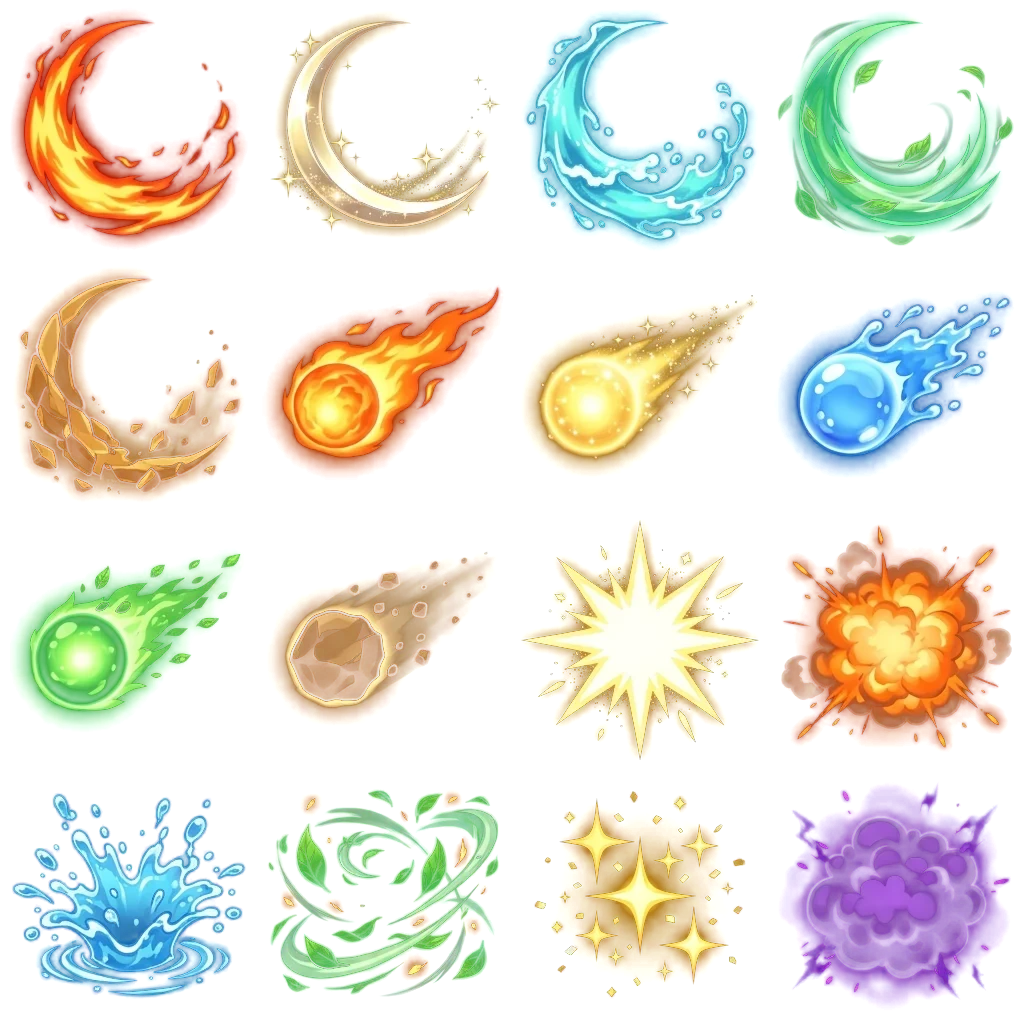
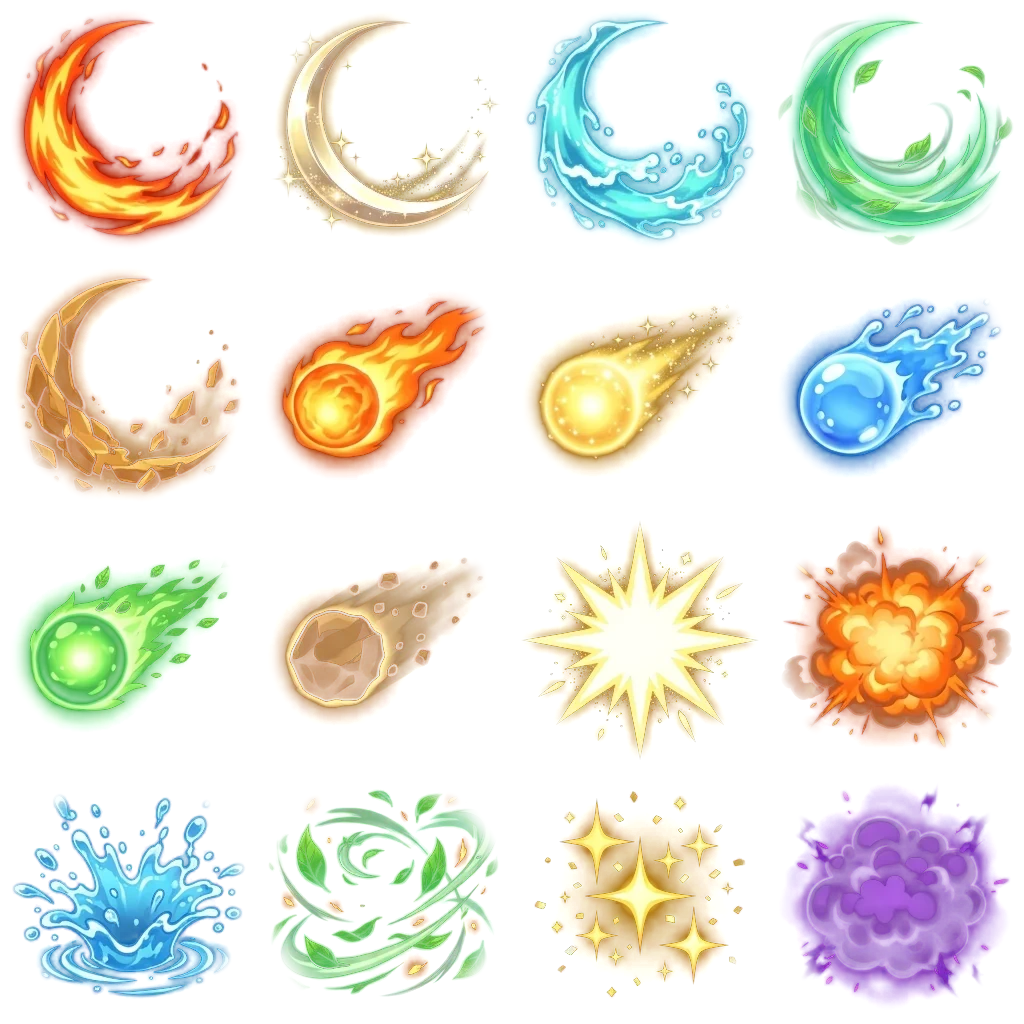
v50: 城鎮對白框不再殘留、特效圖集邊緣羽化（不再方形切邊）、競技場套用城鎮屬性特效與音效、一鍵全自動戰鬥
Claude-Session: https://claude.ai/code/session_0197R7RU68RQZWdCEn8v7Fmg

diff --git a/index.html b/index.html
@@ -537,6 +537,8 @@ body:not(.intown) #bossbar{display:none!important}#bossbar{z-index:5!important}
 #sheet h2:not(.tt){font:900 28px var(--display)!important;letter-spacing:.06em;background:linear-gradient(#fff6c0 8%,#ffcf45 45%,#f0861a 92%);-webkit-background-clip:text;background-clip:text;color:transparent!important;text-shadow:none!important;filter:drop-shadow(0 2.5px 0 #5a2e08) drop-shadow(1.5px 0 0 #5a2e08) drop-shadow(-1.5px 0 0 #5a2e08) drop-shadow(0 -1.5px 0 #5a2e08) drop-shadow(0 3px 3px #0004);margin:0 auto;text-align:center}
 #tut{position:fixed;left:50%;top:calc(env(safe-area-inset-top) + 118px);transform:translateX(-50%);z-index:9;width:min(88vw,360px);display:none;align-items:center;gap:8px;padding:8px 10px 8px 14px;border-radius:14px;background:#fff8e8f2;color:#5a2e08;font:800 13px/1.4 system-ui;box-shadow:0 0 0 2.5px #c8923f,0 6px 16px #0005}#tut.on{display:flex}#tut span{flex:1}#tut button{flex:none;border:0;border-radius:99px;padding:4px 10px;font:800 11px system-ui;background:#e8d5a8;color:#7a5a30}
 #storym{position:fixed;inset:0;z-index:80;display:none;align-items:center;justify-content:center;background:#120c24cc;padding:24px}#storym.on{display:flex}#storym>div{max-width:340px;background:#f6e9c9;border:4px solid #a8743d;border-radius:20px;padding:20px;color:#4a2f18;box-shadow:0 12px 40px #000a}#storym h3{margin:0 0 12px;font:900 20px var(--display);color:#a14d0f;text-align:center}#storym p{font:500 15px/1.75 system-ui;margin:0 0 16px}
+#bcmd .bauto{grid-column:1/-1;background:linear-gradient(#b48cff,#7a4ae0)!important;color:#fff!important;box-shadow:inset 0 2px 0 #fff6,inset 0 -3px 0 #0003,0 3px 0 #4a2a9c!important}#bcmd .bauto.on{background:linear-gradient(#ffd66b,#f2b632)!important;color:#5a3a00!important;animation:apulse .8s infinite alternate}
+body.inbattle #chatb,body.inbattle #hubb,body.inbattle #tut{display:none!important}
 </style>
 </head>
 <body>
@@ -824,8 +826,18 @@ function bDraw(){const cu=B.phase==='cmd'?B.a[B.i]:null;
  if(B.phase==='cmd'){if(B.pend)cmd=B.f.map((x,i)=>x.hp>0?`<button data-a="btgt" data-v="f${i}">${esc(x.name)}</button>`:'').join('')+'<button data-a="bback">返回</button>';
   else{const s=SK[cu.sp];cmd=`<button data-a="bact" data-v="atk">攻擊<small>普通攻擊</small></button><button data-a="bact" data-v="sk" ${cu.qi<2?'disabled':''}>${s[0]}<small>${SKD[s[1]]} · 氣 2</small></button>${(()=>{const p=pairOf(cu,B.a);return p?`<button class="cmb" data-a="bact" data-v="cmb" ${cu.qi<2||p.m.qi<2||p.m.done?'disabled':''}>合體「${p.n}」<small>與 ${esc(p.m.name)} · 各耗氣 2</small></button>`:''})()}<button data-a="bact" data-v="def">防禦<small>傷害減半，氣 +1</small></button><button data-a="bact" data-v="run">逃跑<small>離開戰鬥</small></button>`}}
  else if(B.phase==='end')cmd='<button data-a="bexit">離開</button>';
+ if(B.phase!=='end')cmd=`<button class="bauto${BAUTO?' on':''}" data-a="bauto">${BAUTO?'■ 停止全自動':'⚡ 一鍵全自動'}<small>${BAUTO?'回合自動進行中':'自動選招與目標，打到結束'}</small></button>`+(BAUTO?'':cmd);
+ if(BAUTO&&B.phase==='cmd'&&!B.pend)setTimeout(bAutoPick,450);
  const msg=B.phase==='cmd'?(B.pend?`${esc(cu.name)} 要打誰？`:`第 ${B.round} 回合　${esc(cu.name)} 要做什麼？`):B.msg;
  $('#battle').innerHTML=`<div class="field"><div class="wea">${B.wx[1]} ${B.wx[0]}</div><div class="stage">${B.a.map(u).join('')}${B.f.map(u).join('')}</div></div><div class="bbox"><p id="bmsg">${msg}</p><div id="bcmd">${cmd}</div></div>`;b3Draw()}
+let BAUTO=!!localStorage.sealBA;
+// 全自動：氣夠就合體/絕招，血少的隊友多時防禦，否則攻擊血最少、屬性有利的敵人
+function bAutoPick(){if(!BAUTO||!B||B.phase!=='cmd'||B.pend)return;const u=B.a[B.i];if(!u)return;const al=B.f.filter(x=>x.hp>0);if(!al.length)return;
+ const tgt=al.slice().sort((x,y)=>(wxm(u.sp,y.sp)-wxm(u.sp,x.sp))||(x.hp-y.hp))[0],ti='f'+B.f.indexOf(tgt),p=pairOf(u,B.a);
+ if(p&&u.qi>=2&&p.m.qi>=2&&!p.m.done){A.bact('cmb');if(B.pend)A.btgt(ti);return}
+ if(u.qi>=2){A.bact('sk');if(B.pend)A.btgt(ti);return}
+ if(u.hp<u.mx*.25&&u.qi<2){A.bact('def');return}
+ A.bact('atk');if(B.pend)A.btgt(ti)}
 function bNext(){let i=B.i+1;while(i<B.a.length&&(B.a[i].hp<=0||B.a[i].skipc))i++;if(i<B.a.length){B.i=i;return bDraw()}
  const al=B.a.filter(x=>x.hp>0);B.f.forEach(e=>{if(e.hp<=0||e.skip)return;const r=Math.random(),low=al.slice().sort((x,y)=>x.hp-y.hp)[0];let k='atk',t=pick(al);
   const pr=e.qi>=2?pairOf(e,B.f):null;if(pr&&pr.m.qi>=2&&r<.5){pr.m.skip=1;B.acts.push({u:e,k:'cmb',p:pr,t:low});return}
@@ -849,7 +861,7 @@ function bStep(){if(!B||B.phase!=='run')return;const a=B.acts.shift();
    sfx2(win?'win':'lose');B.msg=(B.mode==='duel'?(win?`你贏了與 ${B.vs} 的友誼賽！`:`友誼賽輸給了 ${B.vs}，再接再厲！`):win?`勝利！獲得 ${fmt(z)} zeny，全員得到經驗。`:'全員倒下…… 得到少量經驗。')+extra+(ups.length?` ${ups.join('、')} 升級了！`:'');hud();build3D();netSync();return bDraw()}
   B.round++;B.phase='cmd';B.i=B.a.findIndex(x=>x.hp>0);return bDraw()}
  const u=a.u;if(u.hp<=0)return bStep();const foes=(u.side==='a'?B.f:B.a).filter(x=>x.hp>0);if(!foes.length)return bStep();
- let t=a.t&&a.t.hp>0?a.t:pick(foes),fx=[],m='';const nm=esc(u.name);
+ let t=a.t&&a.t.hp>0?a.t:pick(foes),fx=[],m='';B.cur=u;const nm=esc(u.name);
  const say=(r,x)=>{fx.push([x,r.miss?'MISS':r.d]);return r.miss?`${esc(x.name)} 閃開了`:`${r.ew>1?'效果絕佳！':r.ew<1?'效果不太好…':''}${esc(x.name)} 受到 ${r.d} 傷害${r.crit?'（爆擊）':''}`};
  if(a.k==='hl'){const al=(u.side==='a'?B.a:B.f).filter(x=>x.hp>0).sort((x,y)=>x.hp/x.mx-y.hp/y.mx)[0];const hl=Math.round(al.mx*.25);al.hp=Math.min(al.mx,al.hp+hl);fx.push([al,'+'+hl]);m=`${nm} 替 ${esc(al.name)} 治療，回復 ${hl}`;t=al}
  else if(a.k==='cmb'){const p=a.p;u.qi=Math.max(0,u.qi-2);if(p.m.hp>0)p.m.qi=Math.max(0,p.m.qi-2);m=`合體技！${nm} 與 ${esc(p.m.name)} 使出「${p.n}」！`;
@@ -1295,7 +1307,7 @@ function buildTown(){fxTex();RBN=1;BLD=1;SIGNS.length=0;const sc=new THREE.Scene
 function enterTown(){if(!HAS3D)return toast('此裝置不支援 3D 城鎮');if(!S.cr.length)return toast('先收服至少一位夥伴才能進城');qClose&&qClose();A.close&&A.close();
  const lo=$('#tload');lo.classList.add('on');setTimeout(()=>{if(!TOWNSC)buildTown();inTown=true;document.body.classList.add('intown');partyBuild();TP={x:0,z:TR-12,y:0,vy:0,ry:Math.PI};tAz=0;TRAIL=[];
   PEERS.forEach(p=>peerMesh(p));if(BOSSD&&!TBOSS3)bossMesh();TLIGHT.castShadow=qi<QL.length-1;lo.classList.remove('on');toast('歡迎來到八卦城！左下搖桿移動，右下跳躍與攻擊');sfx2('ok');twSend({t:'pos',x:TP.x,z:TP.z})},60)}
-function leaveTown(){autoAtk(false);inTown=false;document.body.classList.remove('intown');PARTY.forEach(p=>TOWNSC.remove(p.g));PARTY=[];MOBS.forEach(m=>{TOWNSC.remove(m.g);m.b.remove();m.tg.remove()});MOBS=[];flushEarn(true);build3D&&buildHome3D();toast('回到農場')}
+function leaveTown(){autoAtk(false);PEERS.forEach(p=>{p.b.classList.remove('on');p.tg.style.display='none'});if(BOSSD&&BOSSD.b)BOSSD.b.classList.remove('on');inTown=false;document.body.classList.remove('intown');PARTY.forEach(p=>TOWNSC.remove(p.g));PARTY=[];MOBS.forEach(m=>{TOWNSC.remove(m.g);m.b.remove();m.tg.remove()});MOBS=[];flushEarn(true);build3D&&buildHome3D();toast('回到農場')}
 function partyBuild(){PARTY.forEach(p=>TOWNSC.remove(p.g));const cs=S.cr.slice().sort((a,b)=>(b.lv-a.lv)||(b.rb-a.rb)).slice(0,3);PARTY=cs.map((c,i)=>{const s=sp(c.sp),g=fig3D(c),H=1.15*[0,1,1.1,1.25][s.t];g.scale.setScalar(H);g.userData.h=H;TOWNSC.add(g);return {c,g,H,x:0,z:TR-12-i,y:0,ry:Math.PI,atk:0}});
  tHPM=Math.round(120+cs.reduce((a,c)=>a+total(c)[3]*6,0));tHP=tHPM;thpUI();skName()}
 function thpUI(){const e=$('#thp');if(!e)return;e.querySelector('i').style.width=Math.max(0,tHP/tHPM*100)+'%';e.querySelector('small').textContent=`${Math.max(0,Math.round(tHP))} / ${tHPM}`}
@@ -1304,7 +1316,7 @@ function tCollide(o,r){const d=Math.hypot(o.x,o.z);if(d>TR-1.2){o.x*=(TR-1.2)/d;
 // ── 攻擊與特效 ──
 // ── Nano Banana 特效圖集 ──
 let FXT=null;const FXI={slash:{火:0,金:1,水:2,木:3,土:4},orb:{火:5,金:6,水:7,木:8,土:9},imp:{火:11,金:10,水:12,木:13,土:10}};
-function fxTex(){if(FXT)return FXT;FXT=[];const base=new THREE.TextureLoader().load('art/fx.webp');for(let i=0;i<16;i++){const t=base.clone();t.encoding=THREE.sRGBEncoding;t.repeat.set(.25,.25);t.offset.set((i%4)*.25,.75-Math.floor(i/4)*.25);FXT.push(t)}
+function fxTex(){if(FXT)return FXT;FXT=[];const base=new THREE.TextureLoader().load('art/fx.webp?v=2');base.generateMipmaps=false;base.minFilter=THREE.LinearFilter;for(let i=0;i<16;i++){const t=base.clone();t.encoding=THREE.sRGBEncoding;t.repeat.set(.25,.25);t.offset.set((i%4)*.25,.75-Math.floor(i/4)*.25);FXT.push(t)}
  base.onUpdate=null;const img=base.image;const fix=()=>FXT.forEach(t=>{t.image=base.image;t.needsUpdate=true});if(img&&img.complete)fix();else{const iv=setInterval(()=>{if(base.image&&base.image.complete){clearInterval(iv);fix()}},100)}return FXT}
 function fxSpr(i,x,y,z,sc,d,o){const m=new THREE.SpriteMaterial({map:fxTex()[i],transparent:true,depthWrite:false,rotation:(o&&o.rot)||0});const sp=new THREE.Sprite(m);sp.position.set(x,y,z);sp.scale.setScalar(sc);
  if(TCAM&&sp.position.distanceTo(TCAM.position)<sc*.9){m.dispose();return null}TOWNSC.add(sp);TFX.push(Object.assign({o:sp,t:0,d,k:'fx',s0:sc,g:(o&&o.g)||.6},o||{}));return sp}
@@ -1347,7 +1359,7 @@ function flushEarn(force){if(!tEarn&&!tKills.length)return;if(!force&&performanc
 function partyDown(){toast('隊伍倒下了…在南門重新集合');sfx2('lose');tHP=tHPM;thpUI();TP.x=0;TP.z=TR-12;TP.y=0;PARTY.forEach((p,i)=>{p.x=0;p.z=TR-12-i});MOBS.forEach(m=>{m.st='wander'})}
 // ── 每幀更新 ──
 let TBOSSPOS={x:0,z:3.2};
-function townLoop(t,dt){if(tStop>0){tStop-=dt;dt*=.06}tShake=Math.max(0,tShake-dt*2.2);for(let i=0;i<3;i++)if(SKCD[i]>0)SKCD[i]=Math.max(0,SKCD[i]-dt);skUI();const quiet=!!document.querySelector('#cap.on,#phone.on,#cut.on,#battle.on,#sheet.on,#nickm.on');
+function townLoop(t,dt){if(tStop>0){tStop-=dt;dt*=.06}tShake=Math.max(0,tShake-dt*2.2);for(let i=0;i<3;i++)if(SKCD[i]>0)SKCD[i]=Math.max(0,SKCD[i]-dt);skUI();const quiet=!!document.querySelector('#cap.on,#phone.on,#cut.on,#battle.on,#sheet.on,#nickm.on');objs.forEach(o=>{if(o.b)o.b.classList.remove('on');if(o.tg)o.tg.style.display='none'});if(quiet)MOBS.forEach(m=>{m.b.classList.remove('on');m.tg.style.display='none'});
  if(!quiet&&PARTY.length){let mx=JOY.x,mz=JOY.y;if(TKEY.w||TKEY.arrowup)mz=-1;if(TKEY.s||TKEY.arrowdown)mz=1;if(TKEY.a||TKEY.arrowleft)mx=-1;if(TKEY.d||TKEY.arrowright)mx=1;
   const m=Math.min(1,Math.hypot(mx,mz)),L=PARTY[0];if(m>.08){const ang=Math.atan2(mx,mz)+tAz,sp2=5.2*m;TP.x+=Math.sin(ang)*sp2*dt;TP.z+=Math.cos(ang)*sp2*dt;let df=ang-TP.ry;df=Math.atan2(Math.sin(df),Math.cos(df));TP.ry+=df*Math.min(1,dt*10)}
   if(tAuto){let tg=null,bd=1e9;MOBS.forEach(q=>{const d=Math.hypot(q.x-TP.x,q.z-TP.z);if(d<bd){bd=d;tg=q}});
@@ -1507,7 +1519,7 @@ function flash(c){const el=document.createElement('i');el.className='bflash';el.
 function bp(x){const v=BU.get(x);return v?v.g.position.clone():new THREE.Vector3()}
 // 動作：回傳命中延遲（毫秒）與總時間
 function b3Act(kind,u,t,ty,list,ok){const a=BU.get(u),b=t&&BU.get(t);if(!a)return [0,700];
- if(kind==='atk'){a.an={k:'atk',t:0,d:.95,to:b?b.p.clone().sub(a.p).multiplyScalar(.7):new THREE.Vector3()};sfx2('dash');return [330,950]}
+ if(kind==='atk'){a.an={k:'atk',t:0,d:.95,to:b?b.p.clone().sub(a.p).multiplyScalar(.7):new THREE.Vector3()};sfx2('dash');if(b){const el=bElem(u),melee=MELEE.has(u.sp);setTimeout(()=>{if(!B)return;const hp=bp(t).add(new THREE.Vector3(0,.8,0));if(melee)bSpr(FXI.slash[el],hp.clone().add(new THREE.Vector3(-.2,0,.2)),2.4,.3,{rot:rr(-.6,.6),g:.3});else{const st=a.p.clone().add(new THREE.Vector3(0,.8,0));bSpr(FXI.orb[el],st.lerp(hp,.55),1.4,.25,{g:.2})}},melee?260:180)}return [330,950]}
  if(kind==='def'){a.an={k:'def',t:0,d:1};sfx2('guard');ring(a.p,0x7fd0ff,.4,1.6,.7);return [0,700]}
  // 絕招：先集氣
  a.an={k:'chg',t:0,d:.6};sfx2('charge');ring(a.p,0xffe27a,1.6,.3,.6);burst(a.p.clone().add(new THREE.Vector3(0,.4,0)),0xffe9a0,40,1.6,.25,.6,-1.5);
@@ -1521,8 +1533,13 @@ function b3Act(kind,u,t,ty,list,ok){const a=BU.get(u),b=t&&BU.get(t);if(!a)retur
    setTimeout(()=>{if(!b)return;if(ok){sfx2('crit');flash('#fff2a0');shake=.7;burst(bp(t).add(new THREE.Vector3(0,.6,0)),0xffe060,160,6,.55,1,3);ring(b.p,0xffe060,.3,4,.8);pillar(b.p,0xfff0a0,8,.6,.9)}else{sfx2('fail');burst(b.p.clone().add(new THREE.Vector3(0,.5,0)),0x999999,40,1,.6,1,-.5)}},500)}
  },600);
  return ty===3?[1500,1900]:ty===1?[1100,2300]:ty===2?[1000,2200]:[1100,2200]}
+// 競技場也用城鎮特效圖集
+function bSpr(i,pos,sc,d,o){if(!BS)return;const m=new THREE.SpriteMaterial({map:fxTex()[i],transparent:true,depthWrite:false,rotation:(o&&o.rot)||0}),sp=new THREE.Sprite(m);sp.position.copy(pos);sp.scale.setScalar(sc);
+ fxAdd(sp,d,f=>{const e=f<.2?f/.2:1;m.opacity=f<.6?1:1-(f-.6)/.4;sp.scale.setScalar(sc*(.7+.3*e+((o&&o.g)||.5)*f))})}
+function bElem(u){return u?WX[u.sp]||"土":"土"}
 function b3Hurt(x,v){const a=BU.get(x);if(!a)return;if(v==='MISS'){a.an={k:'dodge',t:0,d:.5};sfx2('miss');return}if(typeof v!=='number')return;
- a.hurt=.45;a.an={k:'hurt',t:0,d:.45,crit:v>=40};sfx2(v>=40?'crit':'hit');burst(a.g.position.clone().add(new THREE.Vector3(0,.8,0)),0xffffff,30,2.6,.28,.35,2);if(x.hp<=0)setTimeout(()=>sfx2('ko'),300)}
+ a.hurt=.45;a.an={k:'hurt',t:0,d:.45,crit:v>=40};const el=bElem(B&&B.cur),hp=a.g.position.clone().add(new THREE.Vector3(rr(-.15,.15),.8,rr(-.15,.15)));sfx2(ELSFX[el]||'hit');if(v>=40)setTimeout(()=>sfx2('crit'),60);
+ bSpr(FXI.imp[el],hp,v>=40?2.6:1.9,.4,{rot:rr(0,6)});if(v>=40)bSpr(14,hp.clone().add(new THREE.Vector3(0,.2,0)),2.8,.5,{g:.4});burst(hp,0xffffff,18,2.6,.22,.3,2);shake=Math.max(shake||0,v>=40?.45:.22);if(x.hp<=0)bSpr(15,hp,2.6,.7,{g:.5});if(x.hp<=0)setTimeout(()=>sfx2('ko'),300)}
 function b3Loop(tm){requestAnimationFrame(b3Loop);const dt=Math.min(.05,(tm-bLast)/1000);bLast=tm;if(!bOn||!B||!document.querySelector('#battle.on'))return;
  BU.forEach((v,x)=>{const g=v.g,cur=B.phase==='cmd'&&B.a[B.i]===x,dead=x.hp<=0;let ox=0,oz=0,oy=0,rx=0,rz=0,ry=v.ry,sy=1,sxz=1;
   const br=Math.sin(tm*.004+v.ph);oy=dead?0:Math.abs(br)*.03*v.k;sy=1+br*.025;sxz=1-br*.012;ry+=dead?0:Math.sin(tm*.0015+v.ph)*.08;
@@ -1634,7 +1651,8 @@ const A={
   B.pend=k;bDraw()},
  btgt(v){if(!B||B.phase!=='cmd'||!B.pend||v[0]!=='f')return;const t=B.f[+v.slice(1)];if(!t||t.hp<=0)return;B.acts.push({u:B.a[B.i],k:B.pend,t,p:B.pendP});B.pend=null;bNext()},
  bback(){B.pend=null;bDraw()},
- bexit(){const md=B&&B.mode;$('#battle').classList.remove('on');bOn=false;B=null;music(BOSSD?'battle':'bgm2');save();hud();if(md==='tower')A.tower();else if(md!=='duel')A.arena()},
+ bauto(){BAUTO=!BAUTO;localStorage.sealBA=BAUTO?1:'';bDraw()},
+ bexit(){const md=B&&B.mode;$('#battle').classList.remove('on');document.body.classList.remove('inbattle');bOn=false;B=null;music(BOSSD?'battle':'bgm2');save();hud();if(md==='tower')A.tower();else if(md!=='duel')A.arena()},
 
  /* ---- 收服 ---- */
  async cap(){A.close();$('#btyOn').checked=S.beauty!==false;capTier=capTier||1;demoMode=false;$('#cap').classList.add('on');$('#cap').classList.remove('demo');$('#capMsg').textContent='';drawSeals();loadFD();
@@ -1855,7 +1873,7 @@ function towerReward(n,first){const got=[];let z=Math.round((300+n*150)*(first?1
 function startBattle(cs,foes,o){const U=(side,name,spid,t,lv,c)=>({side,name,sp:spid,t,lv,c,mx:50+t[3]*8,hp:50+t[3]*8,qi:1,def:false});
  B={a:cs.map(c=>U('a',c.name,c.sp,total(c),c.lv,c)),f:foes,wx:o.mode==='tower'?WEA[0]:pick(WEA),round:1,phase:'cmd',i:0,pend:null,acts:[],msg:'',mode:o.mode||'wild',floor:o.floor,vs:o.vs};
  B.msg=o.msg||'';if(B.mode!=='tower')B.msg+=` ${B.wx[1]} 天候「${B.wx[0]}」：${B.wx[2]}`;AUTO=false;
- A.close();$('#battle').classList.add('on');b3Start();bDraw();music('battle')}
+ A.close();$('#battle').classList.add('on');document.body.classList.add('inbattle');b3Start();bDraw();music('battle')}
 
 function townTap(e){const rc=new THREE.Raycaster();rc.setFromCamera(new THREE.Vector2(e.clientX/innerWidth*2-1,-(e.clientY/innerHeight)*2+1),TCAM);const cand=[...PEERS.values()].filter(p=>p.g).map(p=>p.g).concat(TBOSS3?[TBOSS3]:[]);const h=rc.intersectObjects(cand,true)[0];if(!h)return;let o=h.object;
  while(o&&!o.userData.peer&&!o.userData.boss)o=o.parent;if(!o)return;if(o.userData.boss)A.bossClick(e.clientX,e.clientY);else peerMenu(o.userData.peer,e.clientX,e.clientY)}

diff --git a/sw.js b/sw.js
@@ -1,4 +1,4 @@
-const C='seal-v49',F=['./','index.html','manifest.json','icon-192.png','icon-512.png','apple-touch-icon.png','art/species.webp','art/sky.webp','art/equip.webp','art/cut.webp','art/comic.webp','art/hands.webp','art/home.webp','art/battle.webp','art/plaza.webp','art/wood.webp','art/bubble.webp','art/dock.webp','art/sky3d.jpg','art/logo.webp','art/ui_buddy.webp','art/ui_shop.webp','art/ui_arena.webp','art/ui_rank.webp','art/ui_music.webp','art/ui_coin.webp','art/field.webp','art/frame.webp','art/frame_rank.webp','art/frame_shop.webp','art/frame_arena.webp','art/act_feed.webp','art/act_train.webp','art/act_praise.webp','art/act_punish.webp','art/act_equip.webp','art/act_info.webp','art/food.webp','art/medals.webp','art/t_list.webp','art/t_cr.webp','art/t_shop.webp','art/t_arena.webp','art/t_rank.webp','art/t_stock.webp'];
+const C='seal-v50',F=['./','index.html','manifest.json','icon-192.png','icon-512.png','apple-touch-icon.png','art/species.webp','art/sky.webp','art/equip.webp','art/cut.webp','art/comic.webp','art/hands.webp','art/home.webp','art/battle.webp','art/plaza.webp','art/wood.webp','art/bubble.webp','art/dock.webp','art/sky3d.jpg','art/logo.webp','art/ui_buddy.webp','art/ui_shop.webp','art/ui_arena.webp','art/ui_rank.webp','art/ui_music.webp','art/ui_coin.webp','art/field.webp','art/frame.webp','art/frame_rank.webp','art/frame_shop.webp','art/frame_arena.webp','art/act_feed.webp','art/act_train.webp','art/act_praise.webp','art/act_punish.webp','art/act_equip.webp','art/act_info.webp','art/food.webp','art/medals.webp','art/t_list.webp','art/t_cr.webp','art/t_shop.webp','art/t_arena.webp','art/t_rank.webp','art/t_stock.webp'];
 self.addEventListener('install',e=>{e.waitUntil(caches.open(C).then(c=>c.addAll(F)));self.skipWaiting()});
 self.addEventListener('activate',e=>{e.waitUntil(caches.keys().then(k=>Promise.all(k.filter(x=>x!==C).map(x=>caches.delete(x)))));self.clients.claim()});
 self.addEventListener('fetch',e=>{if(e.request.method!=='GET')return;e.respondWith(fetch(e.request).then(r=>{const cp=r.clone();caches.open(C).then(c=>c.put(e.request,cp)).catch(()=>{});return r}).catch(()=>caches.match(e.request)))});
